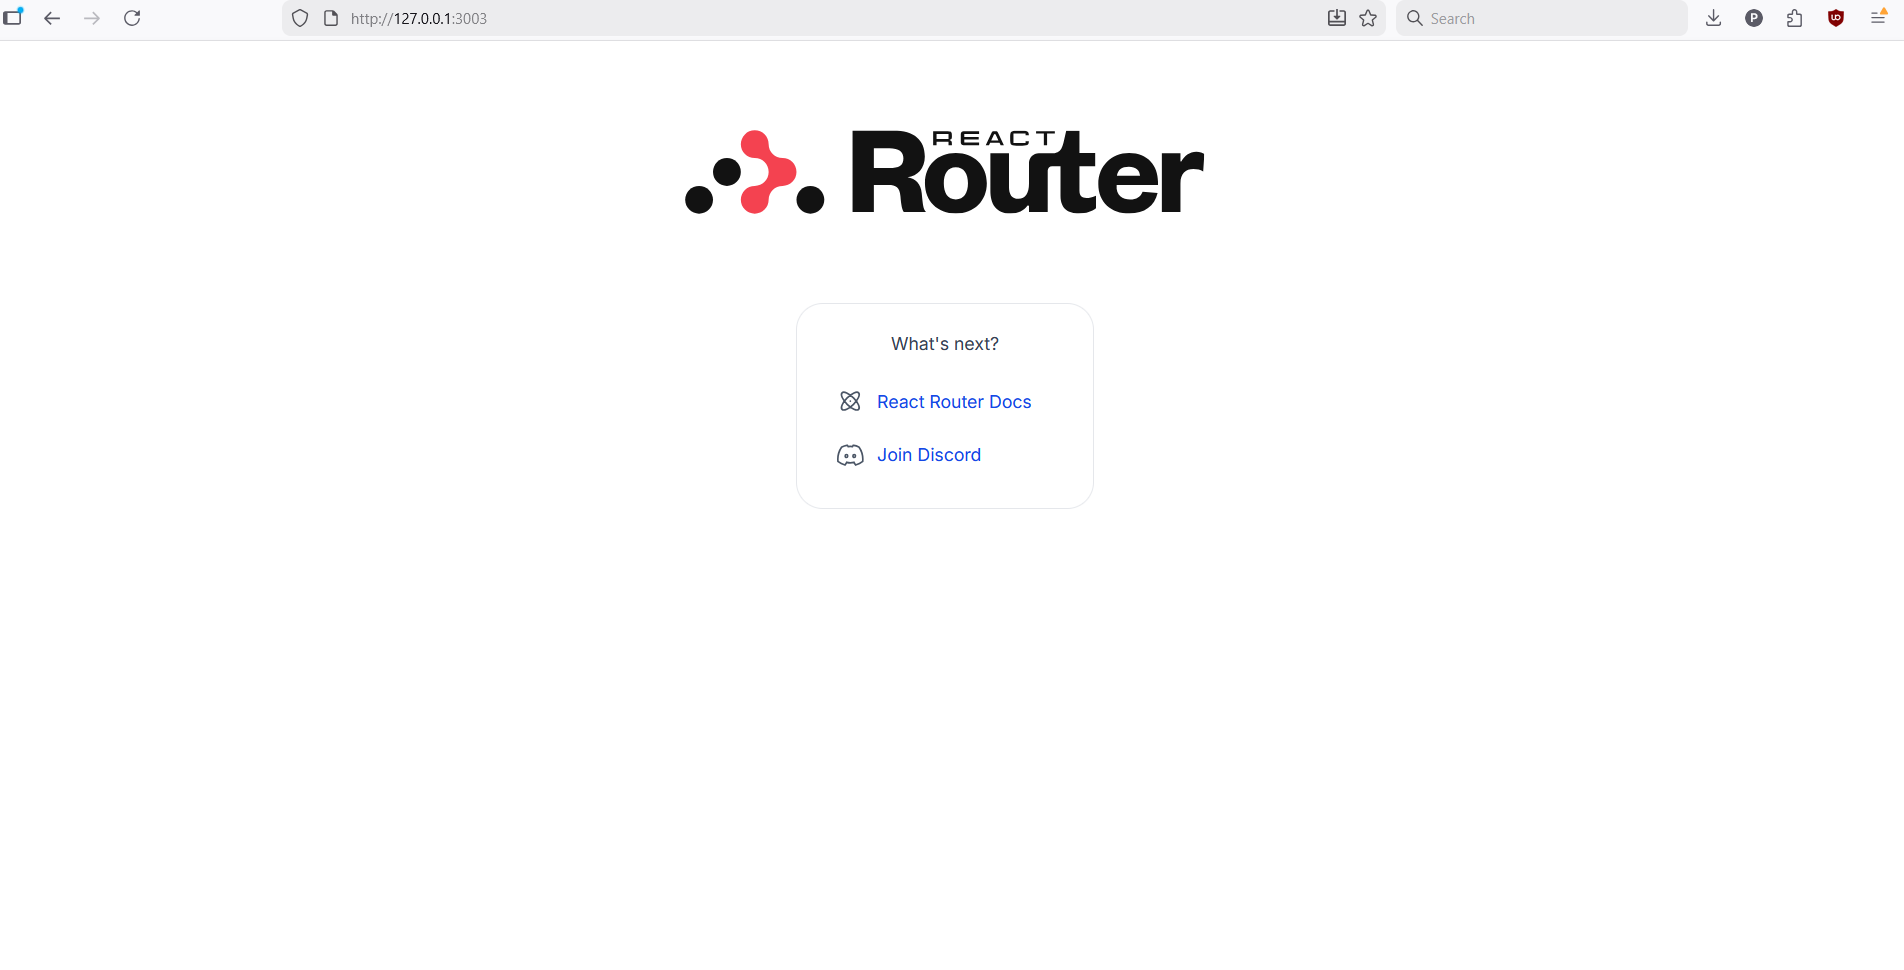
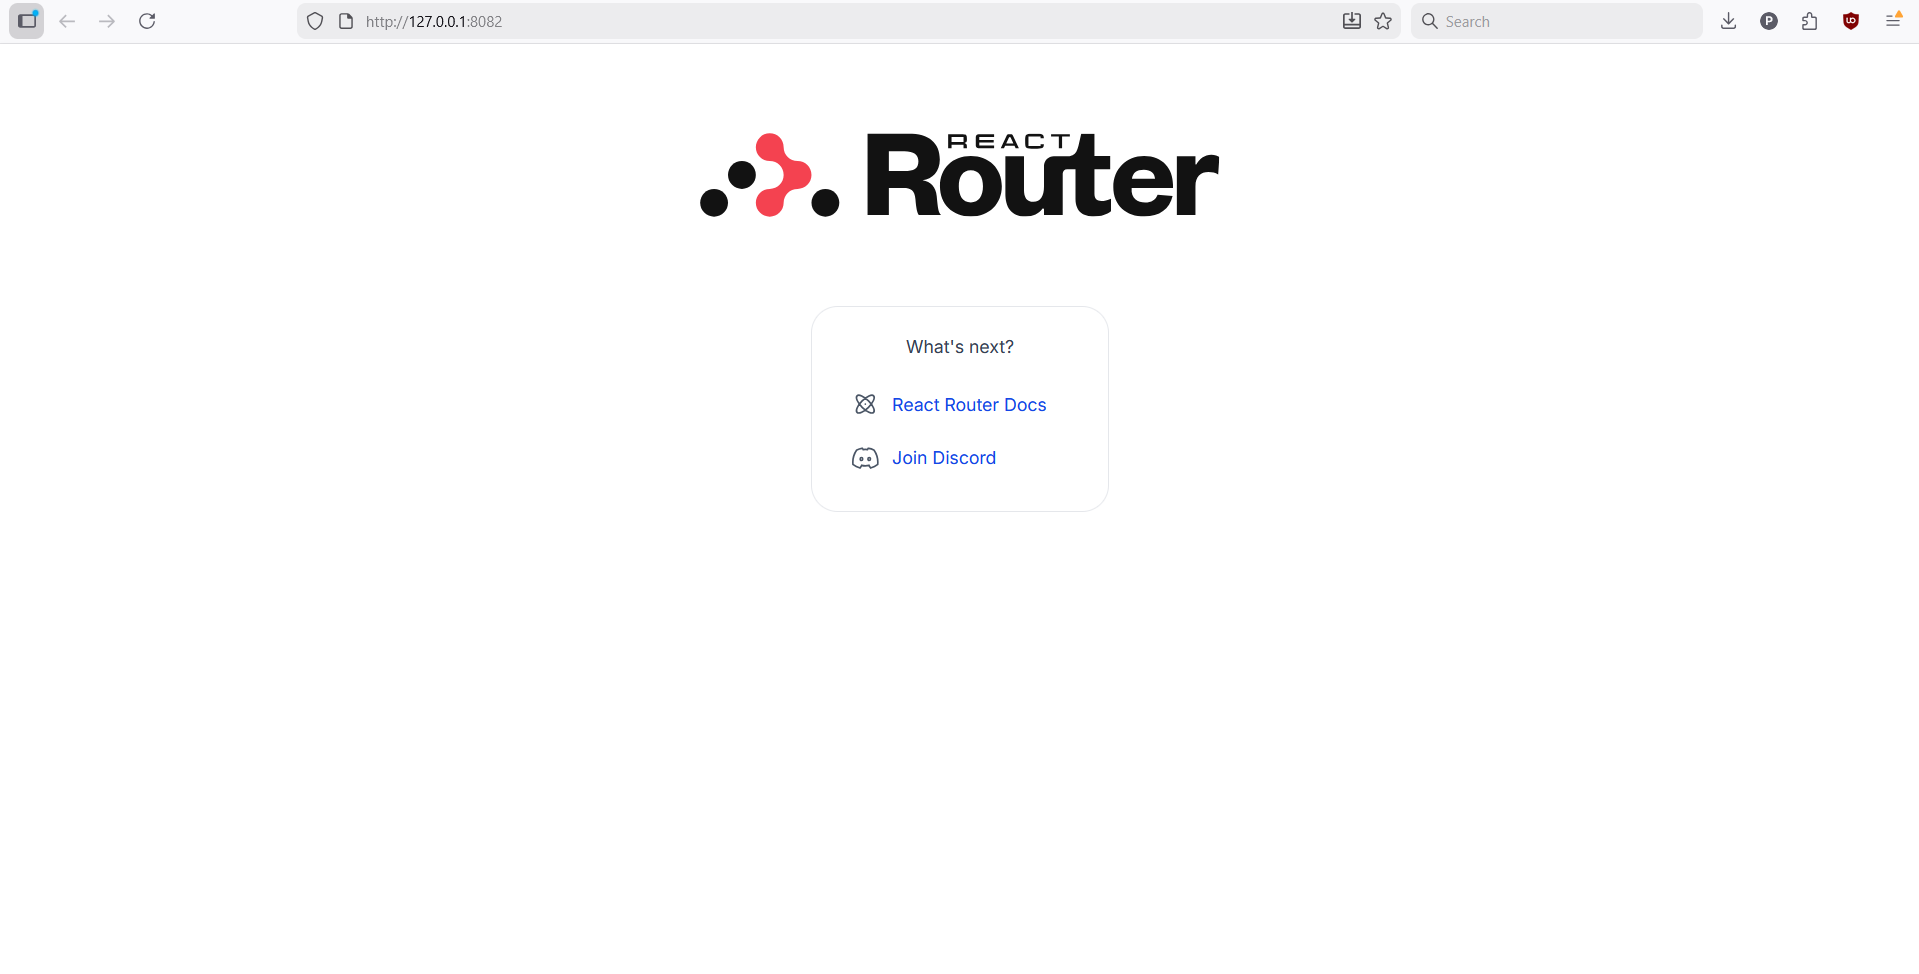
Release 1.6

diff --git a/the_project/README.md b/the_project/README.md
@@ -1,22 +1,19 @@
-You can create a deployment of this app immediately by using this command. This creates a deployment on your local machine, using the version tag 1.5 of __njugen/todo-app__ image hosted on Docker Hub.
+You can create a deployment of this app immediately by using this command. This creates a deployment on your local machine, using the version tag 1.6 of __njugen/todo-app__ image hosted on Docker Hub.
 
-The manifest now has a PORT environmental variable defined for the container. Port set to 3000.
 
 ```
-    kubectl apply -f https://raw.githubusercontent.com/Njugen/DevOpsWithKubernetes/refs/heads/1.5/the_project/manifests/deployment.yaml
+    kubectl apply -f https://raw.githubusercontent.com/Njugen/DevOpsWithKubernetes/refs/heads/1.6/the_project/manifests/deployment.yaml
 ```
 
 
-After deployment, initiate a port forwarding session.
+After deployment, apply a service to it
 
 ```
-    kubectl port-forward PODNAME 3003:3000
+    kubectl apply -f https://raw.githubusercontent.com/Njugen/DevOpsWithKubernetes/refs/heads/1.6/the_project/manifests/service.yaml
 ```
 
-Go to http://localhost:3003 (or 127.0.0.1:3003 if the former does not work).
+Go to http://localhost:8082 (or 127.0.0.1:8082 if the former does not work).
 
 You should see:
 
 ![alt text](image.png)
-
-

diff --git a/README.md b/README.md
@@ -5,3 +5,4 @@
 - [1.3](https://github.com/Njugen/DevOpsWithKubernetes/tree/1.3/log_output)
 - [1.4](https://github.com/Njugen/DevOpsWithKubernetes/tree/1.4/the_project)
 - [1.5](https://github.com/Njugen/DevOpsWithKubernetes/tree/1.5/the_project)
+- [1.6](https://github.com/Njugen/DevOpsWithKubernetes/tree/1.6/the_project)
